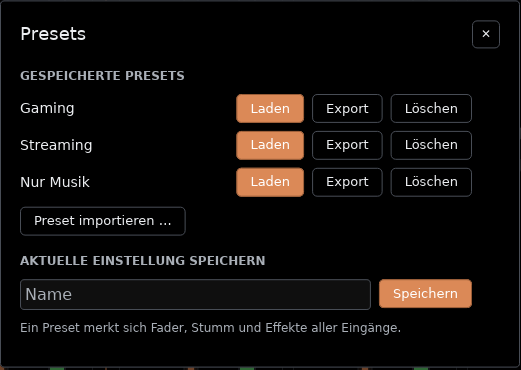
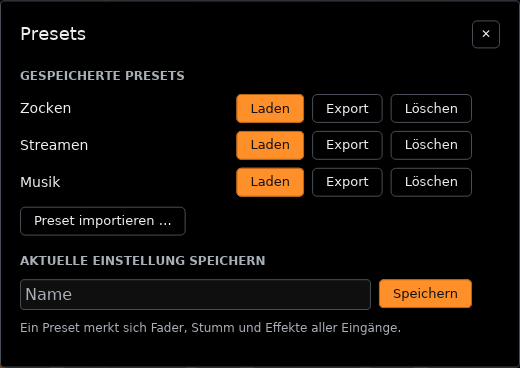
README: neue Bilder (Pult, Matrix, Presets), Reel vorerst entfernt (#230)

diff --git a/README.de.md b/README.de.md
@@ -19,11 +19,6 @@
   Jeder Ausgang bekommt seine eigene Mischung, Geräte dürfen im Betrieb kommen und gehen, virtuelle Kabel bringt Faderust selbst mit.
 </p>
 
-<p align="center">
-  <a href="assets/faderust-reel.mp4"><img src="assets/faderust-reel.gif" width="320" alt="Faderust in 40 Sekunden"></a><br>
-  <sub>Vorschau, <a href="assets/faderust-reel.mp4">Video in voller Qualität</a> (zum Herunterladen)</sub>
-</p>
-
 ![Faderust im Pult mit Geräten, Programmen und drei Ausgängen](assets/screenshot.png)
 
 > **Alpha.** Faderust läuft, ist aber noch kaum auf echter Hardware erprobt. Fehler bitte als [Issue](https://github.com/Niklas970/faderust/issues) melden.

diff --git a/README.md b/README.md
@@ -19,11 +19,6 @@
   Every output gets its own mix, devices may come and go while it runs, and Faderust brings its own virtual cables.
 </p>
 
-<p align="center">
-  <a href="assets/faderust-reel.mp4"><img src="assets/faderust-reel.gif" width="320" alt="Faderust in 40 seconds"></a><br>
-  <sub>Preview, <a href="assets/faderust-reel.mp4">full-quality video</a> (download)</sub>
-</p>
-
 ![Faderust desk with devices, programs and three outputs](assets/screenshot.png)
 
 > **Alpha.** Faderust runs, but has hardly been tested on real hardware yet. Please report problems as an [issue](https://github.com/Niklas970/faderust/issues).
